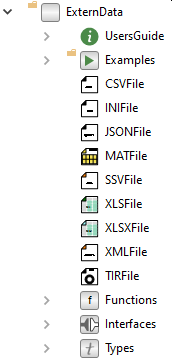
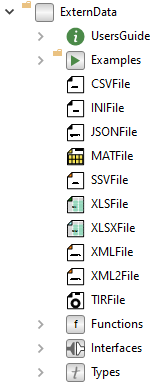
Done for now

diff --git a/modelica2021_ExternData.tex b/modelica2021_ExternData.tex
@@ -99,8 +99,8 @@ The Modelica libraries \modelica{ExternData} and \modelica{ModelicaTableAddition
 
 The separation of the design parameters from Modelica application models was already discussed within the MA (Modelica Association)\footnote{Modelica Association, \url{https://modelica.org}} about 15 years ago.
 \textcite{modelica2005Ford} developed an in-house library \modelica{DataRetrieval}, that featured a generic approach applicable for different file formats or data bases.
-Supported file formats included for example XML (Extensible Markup Language), HDF (Hierarchical Data Format) and MATLAB MAT.
-There even have been early ideas for the standardization of the appropriate interfaces and XPath-like query expressions.
+Supported file formats included for example XML (eXtensible Markup Language), HDF (Hierarchical Data Format) and MATLAB MAT.
+There even have been early ideas for the standardization of the appropriate interfaces and XPath query expressions.
 Similarly, \textcite{modelica2005ZF} presented an in-house library \modelica{ZFlib} based on simple ASCII text files for a generic parameterization of transmission models.
 This library was later extended by \textcite{modelica2006ZF} to also support target platforms without a file system.
 \textcite{Reisenbichler2006IfWO} bewailed that the XML technology had not yet established as a standardized concept for the parameterization of Modelica application models.
@@ -129,19 +129,18 @@ Both libraries can be directly obtained from GitHub or via the Modelica \modelic
  \item \modelica{ExternData} supports the user in reading properties or structural parameters from various file types of external data resources.
  Data access from CSV (Comma Separated Values), INI, JSON (JavaScript Object Notation), MATLAB MAT (including HDF), SSV (System Structure Parameter Values), TIR (Tire Properties), Excel XLS/XLSX and XML files is implemented.
  \item \modelica{ModelicaTableAdditions} is an extension of the Modelica Standard Tables~\cite{modelica2014tables} with support for more file types beside Dymola MOS\footnote{There is no specific name or file extension for the Dymola-specific text/script files starting with ``\#1'' as first line.} and MATLAB MAT.
- Its blocks can be utilized to also model stimulation parameterization or look-up tables from CSV, EPW (EnergyPlus Weather) or JSON files and work as a replacement of the Modelica Standard Tables of the MSL.
+ Its blocks can be utilized to also model stimulation parameterization or look-up tables from CSV, EPW (EnergyPlus Weather)\footnote{EnergyPlus Weather Data, \url{https://energyplus.net/weather}} or JSON files and work as a replacement of the Modelica Standard Tables of the MSL.
 \end{itemize}
 
 \section{ExternData}
 
 The Modelica library \modelica{ExternData} developed out of the need to offer an open-source utility package for efficient parameterization of property parameters from external data resources.
-It is implemented in pure C (i.e., no \C++) by means of external functions and objects serving the Modelica external function interface.
-It has been tested in Dymola and SimulationX, and also works in OpenModelica\footnote{Open Source Modelica Consortium (OSMC),
-\url{https://openmodelica.org/}} with restrictions.
+It has been successfully tested in Dymola, OpenModelica\footnote{Open Source Modelica Consortium (OSMC),
+\url{https://openmodelica.org/}} (Linux only) and SimulationX.
 
 \subsection{Library Design}
 
-The library (as shown in Figure~\ref{fig:ExternData}) consists of top-level (parameter) records for each supported file type, the provided accessor functions in \modelica{ExternData.Functions} and the external objects in \modelica{ExternData.Types}.
+The library (as shown in Figure~\ref{fig:ExternData}) consists of top-level data source records for each supported file type, the provided accessor functions in \modelica{ExternData.Functions} and the external objects in \modelica{ExternData.Types}.
 \begin{figure}[!hb]
 \centering
 \includegraphics[scale=0.8]{resources/ExternData.png}
@@ -149,7 +148,9 @@ The library (as shown in Figure~\ref{fig:ExternData}) consists of top-level (par
 \label{fig:ExternData}
 \end{figure}
 
-Whereas the accessor functions and external object types are necessary implementations, the (parameter) records are pure convenience types to encapsulate both the accessor functions and external object component. A naive type definition and exemplary user call in an application model is given in~\autoref{lst:naive-record-type-definition}.
+\subsubsection{Data Source Records}
+
+The data source records are convenience types to encapsulate the external object component with its accessor functions.
 
 \begin{lstlisting}[caption=Naive record type definition, label=lst:naive-record-type-definition, language=modelica]
 // Library
@@ -173,7 +174,10 @@ parameter Real p = dataSource.f(
   dataSource.obj, "id");
 \end{lstlisting}
 
-The disadvantage of such a naive approach is that the handle of the external object has to be passed by every call of the accessor functions though it actually is an implementation detail of the record and should be a protected component.
+A naive record type definition together with an exemplary user call (application model) is given in~\autoref{lst:naive-record-type-definition}.
+(For the sake of clarity, the declaration of the external type \modelica{Types.ExtObj} and the external function annotation for \modelica{ExtFun} are skipped.)
+
+The disadvantage of such a naive approach is that the handle of the external object, i.e. \modelica{dataSource.obj}, has to be passed by every call of the accessor functions though it actually is an implementation detail of the record and should be a protected component.
 A more sophisticated library design is based on clean interfaces for the records and accessor functions enabling inheritance, and thus the possibility of function redeclaration~\cite{modelisax2018hints}.
 The general concept is presented in~\autoref{lst:soph-record-type-definition}.
 
@@ -215,11 +219,76 @@ parameter Real p = dataSource.f("id");
 \end{lstlisting}
 
 With such a sophisticated library design the actual implementation (as external object) is disguised from the caller as the handle of the external object no longer needs to be passed by the member accessor functions, and hence could be made a protected component.
-It has been successfully tested in Dymola and SimulationX, but fails in OpenModelica with a ``cyclic dependency'' error\footnote{ExternData issue \#9, \url{https://github.com/modelica-3rdparty/ExternData/issues/9}}.
-Thus, the (parameter) record types cannot be used with OpenModelica.
-Only the external objects and their accessor functions (of \modelica{ExternData.Functions}) are directly supported in OpenModelica.
+
+However, as of MLS 3.5 (Modelica Language Specification), it is not yet fully specified, if external objects may be used in records\footnote{MLS issue \#2399, \url{https://github.com/modelica/ModelicaSpecification/issues/2399}}.
+
+\subsubsection{External Functions}\label{sec:functions}
+
+The actual external functions and objects serving the Modelica external function interface are implemented in C, i.e. no \C++ is utilized.
+
+Independent of the actual file type, the accessor functions for Real, Integer, Boolean or String scalars are \modelica{getReal}, \modelica{getInteger}, \modelica{getBoolean} or \modelica{getString}, respectively.
+For one/two-dimensional arrays, the accessor functions are appended by \modelica{Array1D}/\modelica{Array2D}, e.g., \modelica{getRealArray1D} or \modelica{getIntegerArray2D}.
+There also are the corresponding functions to retrieve the array dimensions from the external data resource, i.e., \modelica{getArraySize1D} and \modelica{getArraySize2D} (and also \modelica{getArrayRows2D} and \modelica{getArrayColumns2D}).
+
+\subsubsection{Structural Parameters}
+
+Reading structural parameters using the \modelica{getArraySize1D}/\modelica{getArraySize2D} functions from external data resources (as shown for an XML file by~\autoref{lst:struct-params}) is not generally supported\footnote{MLS issue \#2425, \url{https://github.com/modelica/ModelicaSpecification/issues/2425}}.
+Of the tested Modelica tools, it only works in SimulationX.
+
+\begin{lstlisting}[caption=Accessing structural parameters in SimulationX, label=lst:struct-params, language=modelica]
+// SimulationX application model
+parameter String s = "vector"
+  "XML element name";
+parameter ExternData.XMLFile dataSource(
+  fileName="dataSource.xml")
+  "Data source record";
+parameter Integer m =
+  dataSource.getArraySize1D(s)
+  "Structural parameter";
+parameter Real p[:] =
+  dataSource.getRealArray1D(s, m)
+  "Array parameter";
+\end{lstlisting}
+
+To assist the Dymola users, alternative implementations using \modelica{readArraySize1D}/\modelica{readArraySize2D} functions are available.
+This comes with the disadvantage of redundant file I/O and is demonstrated by~\autoref{lst:struct-params-alt}.
+
+\begin{lstlisting}[caption=Accessing structural parameters in Dymola, label=lst:struct-params-alt, language=modelica]
+// Dymola application model
+parameter String s = "vector"
+  "XML element name";
+parameter XMLFile dataSource(
+  fileName="dataSource.xml")
+  "Data source record";
+parameter Integer m =
+  ExternData.XMLFile.Functions.
+    readArraySize1D(
+    varName=s,
+    fileName="dataSource.xml")
+  "Structural parameter";
+parameter Real p[:] =
+  dataSource.getRealArray1D(s, m)
+  "Array parameter";
+\end{lstlisting}
+
+\subsubsection{Missing Data}
+
+In some cases it may happen, that data of the external resources is missing, for example, an empty cell of an Excel file.
+By parameter \modelica{detectMissingData}, \modelica{ExternData} supports four options how to deal with missing data values.
+
+\begin{itemize}
+ \item Return data-type specific defaults
+ \item Return data-type specific defaults and print a message
+ \item Return data-type specific defaults and raise a warning
+ \item Stop the simulation with an error message
+\end{itemize}
+
+Similarly, the accessor functions~(Section \ref{sec:functions}) also return a Boolean output \modelica{exist} to indicate if the retrieved data is available or missing.
+This way, the reaction on missing data can be modeled per function call.
 
 \subsection{Supported File Types}
+
+\modelica{ExternData} supports various file types for different kind of requirements.
 
 \subsubsection*{CSV}
 
@@ -274,18 +343,15 @@ MATLAB MAT of version~7.3 are HDF5 files and can be considered as a dedicated HD
 \subsubsection*{SSV}
 
 SSV files are standardized XML files that are used within the context of SSP to connect and parameterize FMUs.
-One SSV file describes exactly one parameter set where only scalar parameter values are supported.
-\autoref{lst:ssv-example} displays an example SSV file of version~1.0.
+They can not only be used to parameterize imported FMUs in the Modelica simulation environment.
+One SSV file describes exactly one parameter set where (as of version~1.0) only scalar parameter values are supported.
+\autoref{lst:ssv-example} displays an example SSV file.
 
 \begin{lstlisting}[caption=Example SSV file, label=lst:ssv-example]
 <?xml version="1.0" encoding="UTF-8"?>
-<ssv:ParameterSet version="1.0" name="Data set"
-  xmlns:ssv="http://ssp-standard.org/SSP1/
-    SystemStructureParameterValues"
-  xmlns:ssc="http://ssp-standard.org/SSP1/
-    SystemStructureCommon"
-  xmlns:xsi="http://www.w3.org/2001/
-    XMLSchema-instance">
+<ssv:ParameterSet version="1.0" name="Data
+  set" xmlns:ssv="http://ssp-standard.org/
+  SSP1/SystemStructureParameterValues">
   <ssv:Parameters>
     <ssv:Parameter name="gain.k">
       <ssv:Real value="2"/>
@@ -294,10 +360,12 @@ One SSV file describes exactly one parameter set where only scalar parameter val
 </ssv:ParameterSet>
 \end{lstlisting}
 
+Technically, the external object \modelica{ExternData.Types.ExternXML2File} is reused while the SSV accessor functions call the appropriate XML2 functions (\modelica{ExternData.Functions.XML2.*}) with dedicated XPath query expressions.
+
 \subsubsection*{TIR}
 
 TIR files define domain-specific tire properties.
-They are similar to INI files and are implemented to share the same external object \modelica{ExternData.Types.ExternINIFile}.
+They are similar to INI files and are implemented to share the same external object \modelica{ExternData.Types.ExternINIFile} with respective format permissions.
 
 \subsubsection*{Excel XLS/XLSX}
 
@@ -305,12 +373,13 @@ Both legacy XLS and Office Open XML based XLSX Excel files are supported for par
 
 \subsubsection*{XML}
 
+There are two implementations available.
+\begin{enumerate}
+ \item \modelica{ExternData.XMLFile} is a straightforward implementation to return values from XML element nodes
+ \item \modelica{ExternData.XML2File} enables full support of XPath query expressions to also query XML attributes or more complicated XML structures.
+\end{enumerate}
 
-
-\subsection{Missing Data}
-
-
-\subsection{Structural Parameters}
+There is no restriction on the underlying XML schema, i.e. it can be used for arbitrarily structured XML data, being standardized (e.g., SSV or CPACS (Common Parametric Aircraft Configuration Schema)\footnote{CPACS, \url{https://cpacs.de}}) or not.
 
 \section{ModelicaTableAdditions}
 
@@ -320,11 +389,11 @@ This is where CSV and JSON have their advantages, which can easily be processed 
 As with the Modelica Standard Tables, the external functions are implemented in pure C (i.e., no \C++).
 For JSON, the same library dependencies are utilized as with \modelica{ExternData}.
 It is possible to use components of packages \modelica{ExternData}, \modelica{ModelicaTableAdditions} and MSL in the same application model.
-The library has been tested in Dymola and OpenModelica.
+The library has been successfully tested in Dymola and OpenModelica (Linux only).
 
 \subsection{Library Design}
 
-The library (as shown in Figure~\ref{fig:ModelicaTableAdditions}) consists of the five combi-table blocks known from the MSL, but this time within the \modelica{ModelicaTableAdditions} namespace.
+The library (as shown in Figure~\ref{fig:ModelicaTableAdditions}) consists of the five combi-table blocks known from the MSL, but this time within the \modelica{ModelicaTableAdditions} name-space.
 
 \begin{figure}[!ht]
 \centering
@@ -343,7 +412,7 @@ Both the number of header lines and the column delimiter character can be specif
 \subsubsection{EPW}
 
 The weather conditions of one year are the typical stimulation parameters for building energy simulations, such as the Modelica \modelica{Buildings} Library~\cite{buildings}.
-EnergyPlus\footnote{EnergyPlus Weather Data, \url{https://energyplus.net/weather}} provides weather data for simulation in various formats, especially their EPW format.
+EnergyPlus provides weather data for simulation in various formats, especially their EPW format.
 Since this file format is not natively supported by the Modelica Standard Tables it manually needed to be pre-processed and converted to either Dymola~MOS or MATLAB MAT format.
 This pre-processing no longer is necessary as the EPW format is directly supported by all blocks of the \modelica{ModelicaTableAdditions} library.
 
@@ -351,15 +420,24 @@ This pre-processing no longer is necessary as the EPW format is directly support
 
 Similar as with CSV, tables can be read from JSON files and be utilized as stimulation parameters, e.g. parameter ``matrix'' of~\autoref{lst:json-example}.
 
-\section{Outlook}
-encryption
-units
-xpath
-xlsx
+\section{Conclusions and Outlook}
+
+The open-source libraries \modelica{ExternData} and \modelica{ModelicaTableAdditions} are an offer to Modelica library developers and users to efficiently parameterize Modelica application models.
+Its right to exist is due a missing layered (Modelica Association) standard for the parameterization of Modelica models.
+As already mentioned by~\modelica{DataRetrieval}, the benefits of such a standardization are the cutback of library code towards the Modelica tools to even further increase the efficiency, convenience and usability.
+
+There is no support for units so far, i.e., unit conversion is left to the application.
+This could be also addressed by a standardized parameterization.
+
+Library-wise, one future idea is the support of (symmetrical of asymmetrical) encrypted external resources, which is not yet covered by the MLS.
+In such cases the external functions need the appropriate (private) key to decrypt the external resources at simulation time in memory.
+Again, encryption as an isolated application can only be considered a short-term solution towards a future standard.
+
+Furthermore, it might be desirable if the mentioned open issues on the Modelica Language Specification regarding external objects could be clarified finally.
 
 \section*{Acknowledgements}
 
-The authors would like to thank everybody who has contributed to the libraries \modelica{ExternData} and \modelica{ModelicaTableAdditions}, particularly, Hany Yu, Martin Sjölund, Mike Dempsey and Peter Harman.
+The authors would like to thank everybody who has contributed to the libraries \modelica{ExternData} and \modelica{ModelicaTableAdditions}, particularly, Hang Yu, Martin Sjölund, Mike Dempsey and Peter Harman.
 
 \printbibliography
 
